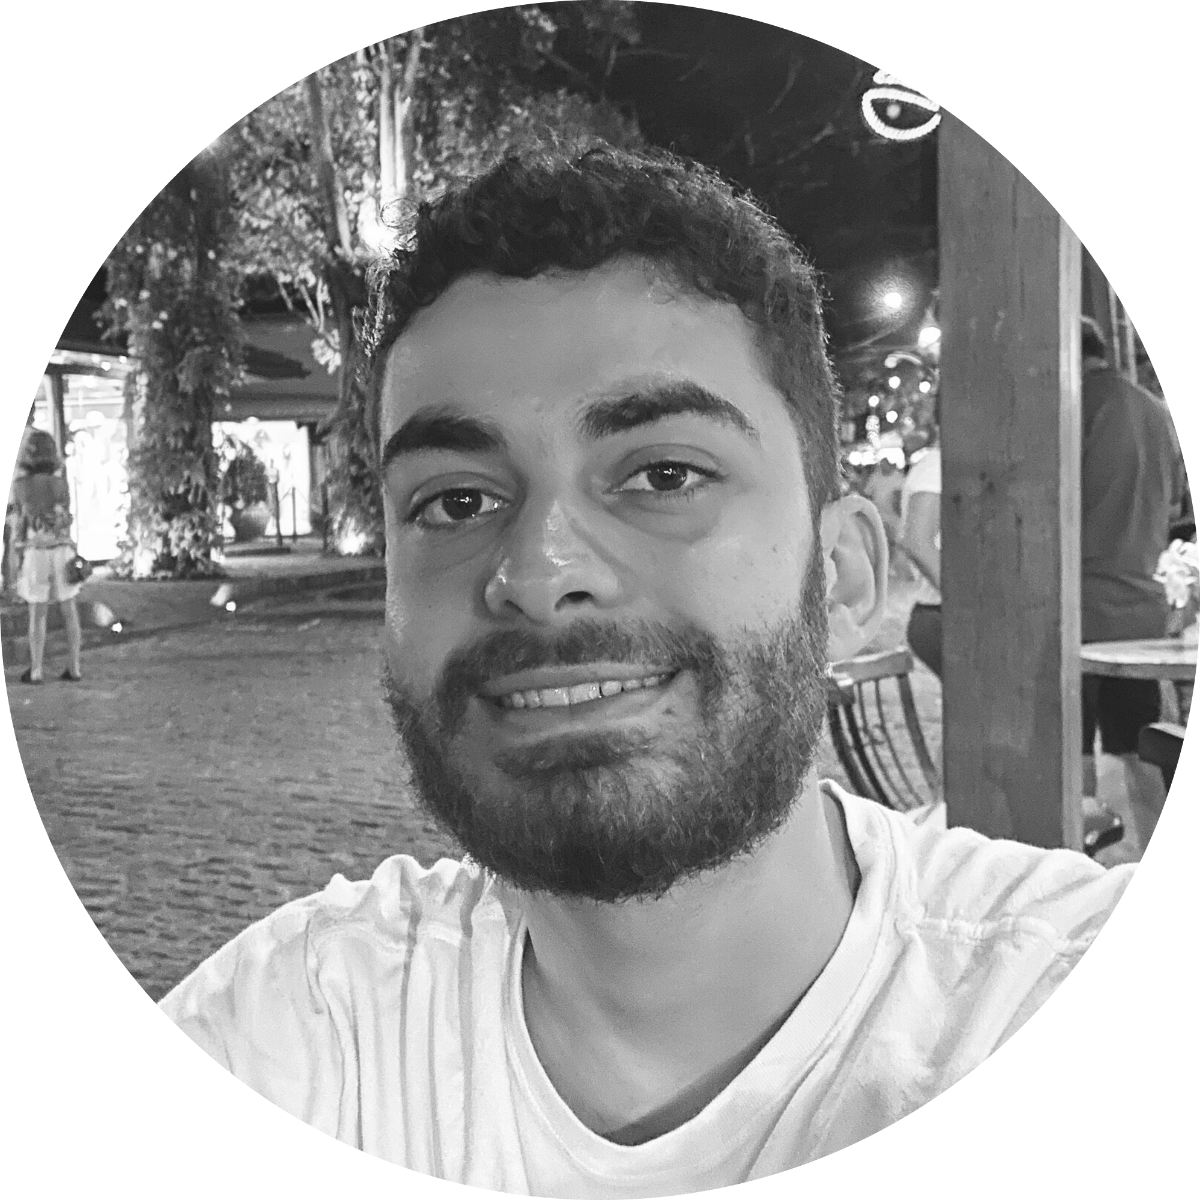
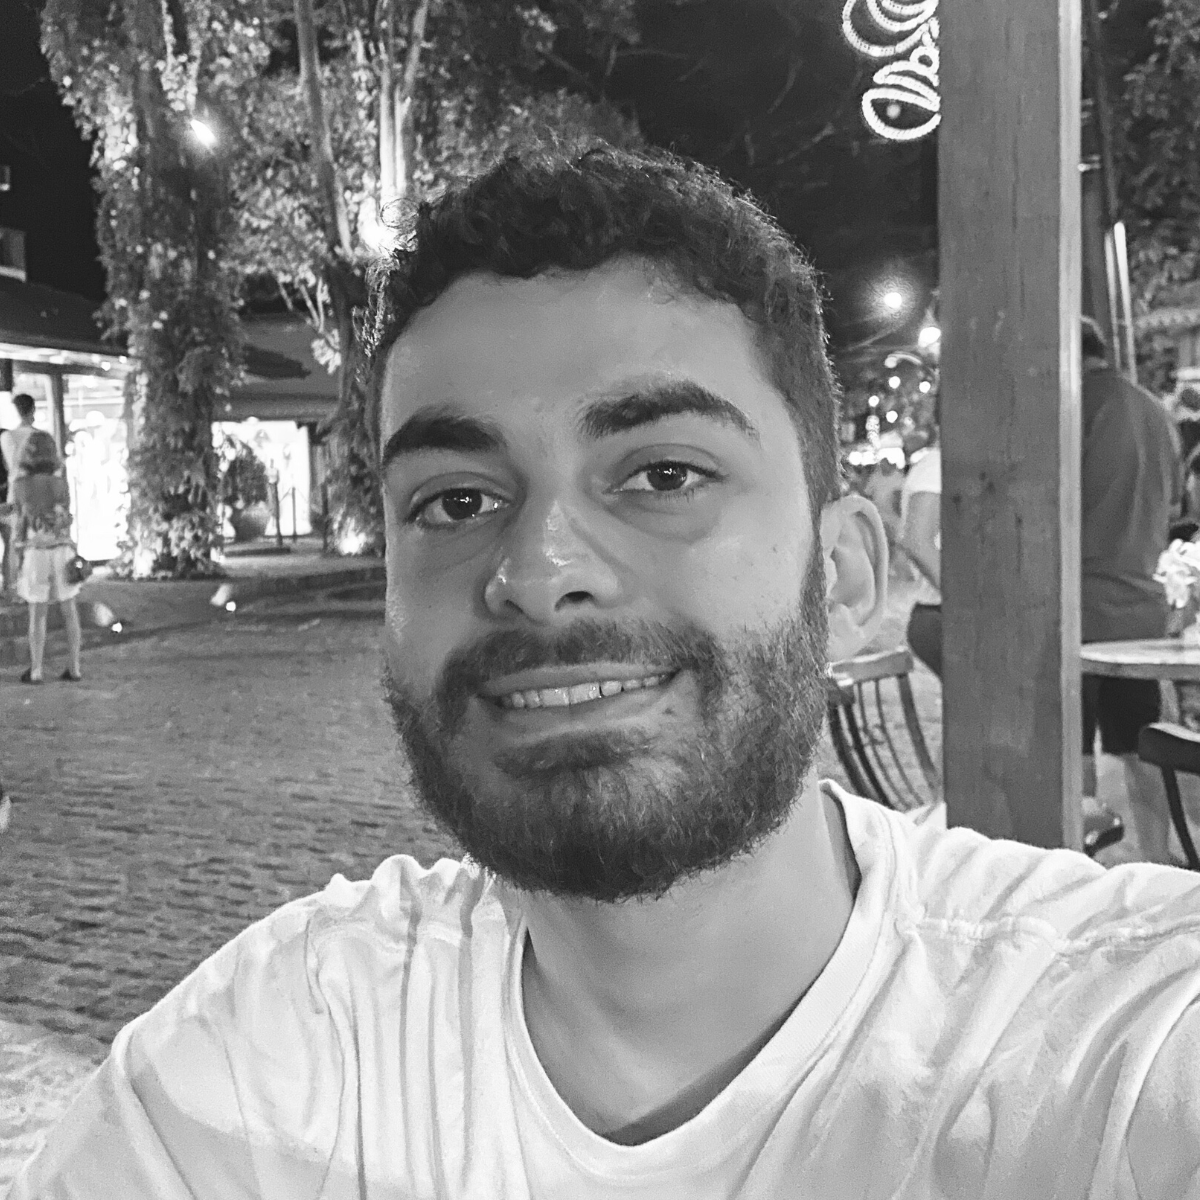
Add files via upload

diff --git a/styles/style.css b/styles/style.css
@@ -1,25 +1,35 @@
-.cabecalho{
-    background-color: #fff;
-    padding: 25px;
-    
-}
 t1{
-    font-size: 25px;
-    color: #000;
-}
-.img-menu{
-    float: right;
+    font-size: 30px;
 }
 
 .img-foto-index{
-    margin-top: 30px;
-    margin-right: auto;
-    margin-bottom: 30px;
+
+    border-radius: 100%;
+    width: 30%;
+    margin-top: 5%;
     margin-left: auto;
+    margin-right: auto;
+    display: block;
 }
-.botoes{
-  
-}
+
 body{
     background: black;
+    font-family: PT Sans;
+    color:#fff;
+    font-size: 50px;
+}
+.div1{
+    padding: 5px 80px 5px 80px; 
+    background-color: rgba(0, 0, 0, 0.041);
+    margin: 15px 15px 15px 15px;
+}
+.div2{
+    padding: 80px;
+    background-color: rgba(255, 255, 255, 0.041);
+    margin: 20px;
+}
+div{
+    padding: 80px;
+    background-color: rgba(255, 255, 255, 0.041);
+    margin: 20px;
 }
